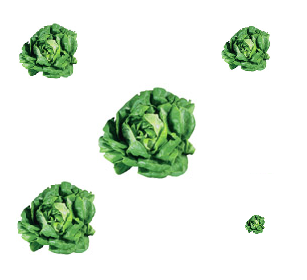
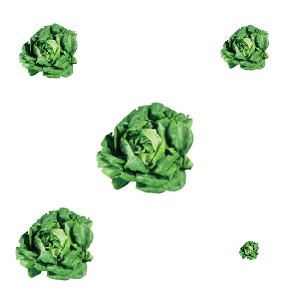
added pic and code
Added 5 plant picture with different sized plants for testing. Added code to try and crop those specific areas and read them individually

diff --git a/test-Andrew.py b/test-Andrew.py
@@ -35,10 +35,21 @@ def plantEdge(image):
 
     
     
-img = cv2.imread('lettuce.jpg')
+img = cv2.imread('5plantDifferentS.png')
+edges = cv2.Canny(img,100,100)
 
-edges = plantEdge(img)
-cv2.imshow("edges", edges)
+plant1 = edges[0:100, 0:100]
+plant2 = edges[200:300, 0:100]
+plant3 = edges[0:100, 0:100]
+plant4 = edges[0:100, 0:100]
+plant5 = edges[0:100, 0:100]
+
+#edges = plantEdge(img)
+cv2.imshow("plant1", plant1)
+cv2.imshow("plant2", plant2)
+cv2.imshow("plant3", plant3)
+cv2.imshow("plant4", plant4)
+cv2.imshow("plant5", plant5)
 
 #Press Q to close all windows
 if cv2.waitKey(1) & 0xFF == ord('q'):
